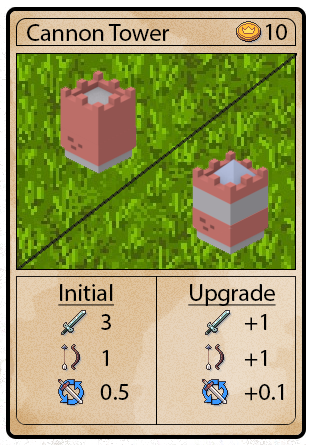
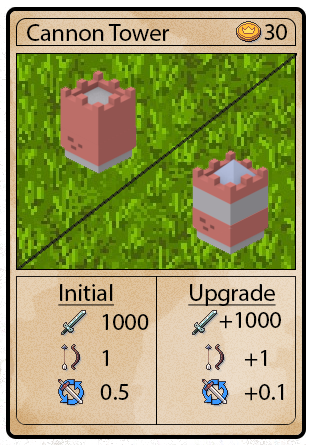
Updated Images and Splash Screen

Changed region(s): [[0.6058, 0.7011, 0.9231, 0.7596], [0.3173, 0.7011, 0.4904, 0.7596], [0.8365, 0.0584, 0.8942, 0.0876]]

diff --git a/src/viewable/cards/towers/CannonTowerCard.java b/src/viewable/cards/towers/CannonTowerCard.java
@@ -35,7 +35,7 @@ public class CannonTowerCard extends TowerCard {
 	@Override
 	public void Upgrade(Tower c) {
 		c.setUpgraded(true);
-		c.setAttack(c.getAttack() + 1);
+		c.setAttack(c.getAttack() + 1000);
 		c.setRange(c.getRange() + 1);
 		c.setAttackSpeed(c.getAttackSpeed() + .1);
 	}
